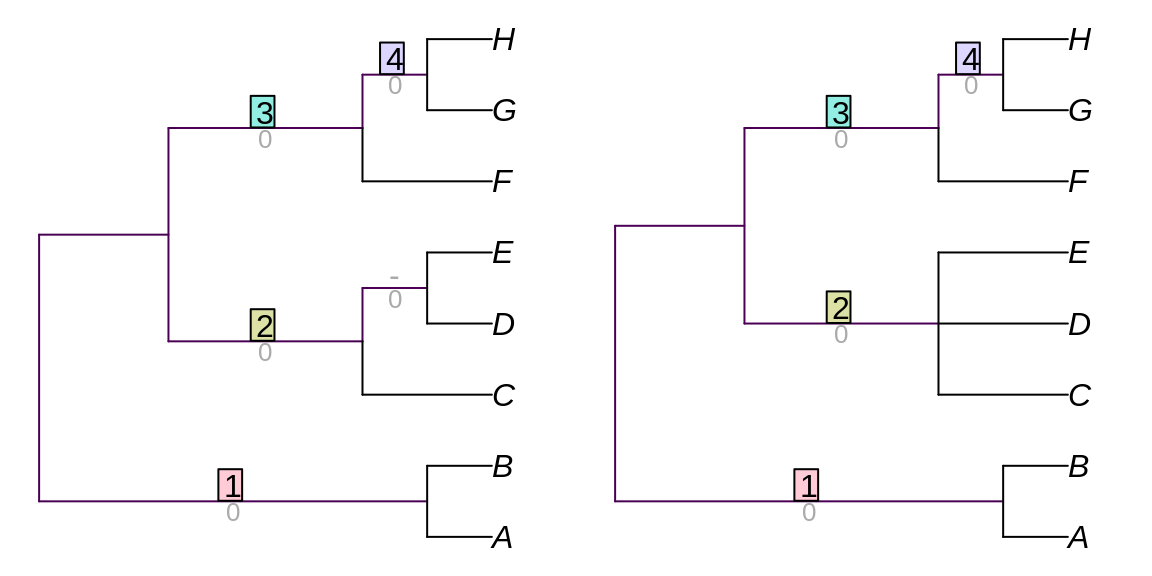
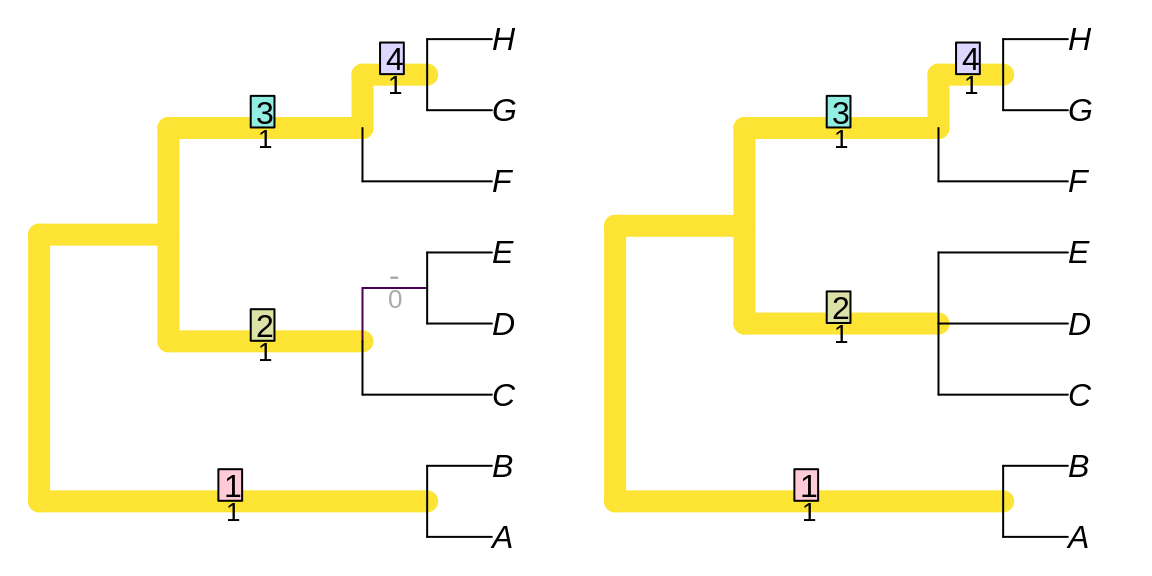
Built site for TreeDist: 0.0.0.9000@19d1842

Changed region(s): [[0.5, 0.0938, 0.875, 0.9062], [0.0, 0.0938, 0.375, 0.9062]]

diff --git a/articles/Generalized-RF.html b/articles/Generalized-RF.html
@@ -127,37 +127,34 @@
     
     
 <p>This document outlines the similarity measures employed by the generalized Robinson-Foulds distances implemented in this package.</p>
-<p>Generalized RF distances are introduced <a href="Robinson-Foulds.html">elsewhere</a>; before you read further, you may also wish to revisit how to <a href="Using-TreeDist.html">use the TreeDist package</a>, and relevant <a href="information.html">principles of information theory</a>.</p>
+<p>Generalized RF distances are introduced <a href="Robinson-Foulds.html">elsewhere</a>; before you read further, you may also wish to revisit how to <a href="Using-TreeDist.html">use the ‘TreeDist’ package</a>, and relevant <a href="information.html">principles of information theory</a>.</p>
 <div id="shared-phylogenetic-information" class="section level2">
 <h2 class="hasAnchor">
 <a href="#shared-phylogenetic-information" class="anchor"></a>Shared phylogenetic information</h2>
-<p>Under the shared phylogenetic information tree distance measure <span class="citation">(Smith, 2020)</span>, pairs of splits are assigned a similarity score that corresponds to the amount of phylogenetic information <span class="citation">(<em>sensu</em> Steel &amp; Penny, 2006)</span> that they share in common (see <a href="information.html">separate vignette</a>), a concept introduced but not developed by Nelson <span class="citation">(1979)</span>.</p>
+<p>Under the shared phylogenetic information tree distance measure <span class="citation">(Smith, 2020)</span>, pairs of splits are assigned a similarity score that corresponds to the amount of phylogenetic information <span class="citation">(<em>sensu</em> Steel &amp; Penny, 2006)</span> that they share in common (see <a href="information.html">separate vignette</a>), a concept introduced (but not developed) by Nelson <span class="citation">(1979)</span>.</p>
 <div class="sourceCode" id="cb1"><html><body><pre class="r"><span class="fu"><a href="../reference/VisualizeMatching.html">VisualizeMatching</a></span>(<span class="no">SharedPhylogeneticInfo</span>, <span class="no">tree1</span>, <span class="no">tree2</span>,
                   <span class="kw">Plot</span> <span class="kw">=</span> <span class="no">TreeDistPlot</span>, <span class="kw">matchZeros</span> <span class="kw">=</span> <span class="fl">FALSE</span>)</pre></body></html></div>
 <p><img src="Generalized-RF_files/figure-html/unnamed-chunk-1-1.png" width="576" style="display: block; margin: auto;"></p>
 <div class="sourceCode" id="cb2"><html><body><pre class="r"><span class="fu"><a href="../reference/TreeDistance.html">SharedPhylogeneticInfo</a></span>(<span class="no">tree1</span>, <span class="no">tree2</span>)</pre></body></html></div>
 <pre><code>## [1] 12.32188</code></pre>
-<div id="the-problem-with-prohibiting-conflicting-pairings" class="section level3">
+<div id="conflicting-splits-can-nevertheless-be-instructive" class="section level3">
 <h3 class="hasAnchor">
-<a href="#the-problem-with-prohibiting-conflicting-pairings" class="anchor"></a>The problem with prohibiting conflicting pairings</h3>
-<!--TODO expand to expound arboreal matchings-->
-<p>Shared phylogenetic information prohibits the pairing of contradictory splits: that is, it assigns zero similarity to splits that cannot both occur on a single tree.<br>
-This leads to problematic behaviour in certain cases: for example, when the position of two distant taxa is swapped, similarities within a tree can be obscured.<br>
-The two trees below are identical but for the position of <em>A</em> and <em>J</em>, yet receive zero similarity if conflicting splits cannot be paired.</p>
-<div class="sourceCode" id="cb4"><html><body><pre class="r"><span class="fu"><a href="../reference/VisualizeMatching.html">VisualizeMatching</a></span>(<span class="no">SharedPhylogeneticInfo</span>, <span class="kw">matchZeros</span> <span class="kw">=</span> <span class="fl">FALSE</span>, <span class="no">AtoJ</span>, <span class="no">AotJ</span>,
-                  <span class="kw">Plot</span> <span class="kw">=</span> <span class="no">TreeDistPlot</span>, <span class="kw">leaveRoom</span> <span class="kw">=</span> <span class="fl">FALSE</span>, <span class="kw">prune</span> <span class="kw">=</span> <span class="fu"><a href="https://rdrr.io/r/base/c.html">c</a></span>(<span class="fl">5</span>, <span class="fl">18</span>))</pre></body></html></div>
+<a href="#conflicting-splits-can-nevertheless-be-instructive" class="anchor"></a>Conflicting splits can nevertheless be instructive</h3>
+<p>Shared phylogenetic information assigns zero similarity to incompatible splits, i.e. those that cannot both occur on a single tree.<br>
+This leads to problematic behaviour in certain cases: for example, swapping the position of two distant leaves (as with leaves ‘A’ and ‘J’ below) can disproportionately reduce similarity – in this example, to zero.</p>
+<div class="sourceCode" id="cb4"><html><body><pre class="r"><span class="fu"><a href="../reference/VisualizeMatching.html">VisualizeMatching</a></span>(<span class="no">SharedPhylogeneticInfo</span>, <span class="no">AtoJ</span>, <span class="no">swapAJ</span>,
+                  <span class="kw">Plot</span> <span class="kw">=</span> <span class="no">TreeDistPlot</span>, <span class="kw">matchZeros</span> <span class="kw">=</span> <span class="fl">FALSE</span>, <span class="kw">prune</span> <span class="kw">=</span> <span class="fu"><a href="https://rdrr.io/r/base/c.html">c</a></span>(<span class="fl">5</span>, <span class="fl">18</span>))</pre></body></html></div>
 <p><img src="Generalized-RF_files/figure-html/unnamed-chunk-2-1.png" width="576" style="display: block; margin: auto;"></p>
 </div>
 </div>
 <div id="mutual-clustering-information" class="section level2">
 <h2 class="hasAnchor">
 <a href="#mutual-clustering-information" class="anchor"></a>Mutual clustering information</h2>
-<!--TODO REWRITE; coherent matching -> prohibit conflicting pairings -->
-<p>Scoring each pair of splits according to their mutual clustering information <span class="citation">(Smith, 2020)</span> (see <a href="information.html">separate vignette</a>) results in a information-based tree distance metric that, as desired, assigns a non-zero similarity to the case that received zero similarity under an coherent matching:</p>
-<div class="sourceCode" id="cb5"><html><body><pre class="r"><span class="fu"><a href="../reference/VisualizeMatching.html">VisualizeMatching</a></span>(<span class="no">MutualClusteringInfo</span>, <span class="no">AtoJ</span>, <span class="no">AotJ</span>, <span class="kw">matchZeros</span> <span class="kw">=</span> <span class="fl">FALSE</span>,
-                  <span class="kw">Plot</span> <span class="kw">=</span> <span class="no">TreeDistPlot</span>, <span class="kw">leaveRoom</span> <span class="kw">=</span> <span class="fl">FALSE</span>, <span class="kw">prune</span> <span class="kw">=</span> <span class="fu"><a href="https://rdrr.io/r/base/c.html">c</a></span>(<span class="fl">5</span>, <span class="fl">18</span>))</pre></body></html></div>
+<p>Scoring each pair of splits according to their mutual clustering information <span class="citation">(Smith, 2020)</span> (see <a href="information.html">separate vignette</a>) results in a information-based tree distance metric that recognizes similarity in tree structure even when every possible pairing of splits conflicts:</p>
+<div class="sourceCode" id="cb5"><html><body><pre class="r"><span class="fu"><a href="../reference/VisualizeMatching.html">VisualizeMatching</a></span>(<span class="no">MutualClusteringInfo</span>, <span class="no">AtoJ</span>, <span class="no">swapAJ</span>,
+                  <span class="kw">Plot</span> <span class="kw">=</span> <span class="no">TreeDistPlot</span>, <span class="kw">matchZeros</span> <span class="kw">=</span> <span class="fl">FALSE</span>, <span class="kw">prune</span> <span class="kw">=</span> <span class="fu"><a href="https://rdrr.io/r/base/c.html">c</a></span>(<span class="fl">5</span>, <span class="fl">18</span>))</pre></body></html></div>
 <p><img src="Generalized-RF_files/figure-html/unnamed-chunk-3-1.png" width="576" style="display: block; margin: auto;"></p>
-<div class="sourceCode" id="cb6"><html><body><pre class="r"><span class="fu"><a href="../reference/TreeDistance.html">MutualClusteringInfo</a></span>(<span class="no">AtoJ</span>, <span class="no">AotJ</span>)</pre></body></html></div>
+<div class="sourceCode" id="cb6"><html><body><pre class="r"><span class="fu"><a href="../reference/TreeDistance.html">MutualClusteringInfo</a></span>(<span class="no">AtoJ</span>, <span class="no">swapAJ</span>)</pre></body></html></div>
 <pre><code>## [1] 1.348339</code></pre>
 <p>Because no pair of non-trivial splits has zero mutual clustering information, even a dissimilar matching (such as <code>HI|ABCDEFG</code> =&gt; <code>EI|ABCDFGH</code> below) is preferred to leaving a split unpaired.</p>
 <div class="sourceCode" id="cb8"><html><body><pre class="r"><span class="fu"><a href="../reference/VisualizeMatching.html">VisualizeMatching</a></span>(<span class="no">MutualClusteringInfo</span>, <span class="no">tree1</span>, <span class="no">tree2</span>,

diff --git a/articles/Robinson-Foulds.html b/articles/Robinson-Foulds.html
@@ -202,17 +202,19 @@
 <a href="#constructing-a-matching" class="anchor"></a>Constructing a matching</h2>
 <p>Let’s consider two trees that differ in the position of one wildcard leaf, and in the resolution of a clade:</p>
 <div class="sourceCode" id="cb4"><html><body><pre class="r"><span class="no">tree1</span> <span class="kw">&lt;-</span> <span class="kw pkg">ape</span><span class="kw ns">::</span><span class="fu"><a href="https://rdrr.io/pkg/ape/man/read.tree.html">read.tree</a></span>(<span class="kw">text</span><span class="kw">=</span><span class="st">'((A, B), ((C, (D, E)), (F, (G, (H, I)))));'</span>)
-<span class="no">tree2</span> <span class="kw">&lt;-</span> <span class="fu">read.tree</span>(<span class="kw">text</span><span class="kw">=</span><span class="st">'((A, B), ((C, D, (E, I)), (F, (G, H))));'</span>)
+<span class="no">tree2</span> <span class="kw">&lt;-</span> <span class="kw pkg">ape</span><span class="kw ns">::</span><span class="fu"><a href="https://rdrr.io/pkg/ape/man/read.tree.html">read.tree</a></span>(<span class="kw">text</span><span class="kw">=</span><span class="st">'((A, B), ((C, D, (E, I)), (F, (G, H))));'</span>)
 
 <span class="fu">Plot</span>(<span class="no">tree1</span>, <span class="no">tree2</span>, <span class="kw">highlight</span> <span class="kw">=</span> <span class="st">'I'</span>, <span class="kw">prune</span> <span class="kw">=</span> <span class="fu"><a href="https://rdrr.io/r/base/list.html">list</a></span>(<span class="fl">8</span>, <span class="fu"><a href="https://rdrr.io/r/base/integer.html">integer</a></span>(<span class="fl">0</span>)))</pre></body></html></div>
 <p><img src="Robinson-Foulds_files/figure-html/unnamed-chunk-5-1.png" width="576" style="display: block; margin: auto;"></p>
-<p>These trees obtain a Robinson-Foulds distance of nine, out of a maximum of eleven possible for trees of this resolution. <code>AB|CDEFGHI</code> is the only split in common between the two trees:</p>
+<p>These trees obtain a Robinson-Foulds distance of nine: a large distances, as the maximum possible for trees of this resolution is eleven. <code>AB|CDEFGHI</code> is the only split in common between the two trees:</p>
 <div class="sourceCode" id="cb5"><html><body><pre class="r"><span class="fu">TwoTreePlot</span>()
-<span class="fu"><a href="../reference/VisualizeMatching.html">VisualizeMatching</a></span>(<span class="no">RobinsonFoulds</span>, <span class="no">tree1</span>, <span class="no">tree2</span>)</pre></body></html></div>
+<span class="fu"><a href="../reference/VisualizeMatching.html">VisualizeMatching</a></span>(<span class="no">RobinsonFouldsMatching</span>, <span class="no">tree1</span>, <span class="no">tree2</span>)</pre></body></html></div>
 <p><img src="Robinson-Foulds_files/figure-html/unnamed-chunk-6-1.png" width="576" style="display: block; margin: auto;"></p>
-<p>This high score does not seem to reflect the similarity between the trees: removing the single leaf <em>I</em> results in two trees that differ only in the resolution of a single node:</p>
+<p>This distance score is higher than might be expected, given how much the trees have in common; removing the single leaf ‘I’ results in two trees that differ only in the resolution of a single node:</p>
 <div class="sourceCode" id="cb6"><html><body><pre class="r"><span class="fu">TwoTreePlot</span>()
-<span class="fu"><a href="../reference/VisualizeMatching.html">VisualizeMatching</a></span>(<span class="no">RobinsonFoulds</span>, <span class="fu">drop.tip</span>(<span class="no">tree1</span>, <span class="st">'I'</span>), <span class="fu">drop.tip</span>(<span class="no">tree2</span>, <span class="st">'I'</span>))</pre></body></html></div>
+<span class="fu"><a href="../reference/VisualizeMatching.html">VisualizeMatching</a></span>(<span class="no">RobinsonFouldsMatching</span>,
+                  <span class="fu">drop.tip</span>(<span class="no">tree1</span>, <span class="st">'I'</span>),
+                  <span class="fu">drop.tip</span>(<span class="no">tree2</span>, <span class="st">'I'</span>))</pre></body></html></div>
 <p><img src="Robinson-Foulds_files/figure-html/unnamed-chunk-7-1.png" width="576" style="display: block; margin: auto;"></p>
 <p>This hidden similarity can be better reflected if similar, but non-identical, splits are assigned non-zero similarity scores.</p>
 <p>There are various ways to score the similarity between two splits. One is to build on the idea introduced above, where identical splits are scored according to their phylogenetic information content. Non-matching splits can be scored according to the amount of phylogenetic information that they hold in common, which is a function of the proportion of trees that are consistent with both splits. (A full explanation is provided in the discussion of <a href="Generalized-RF.html">Generalized Robinson-Foulds distances</a>.)</p>
@@ -220,8 +222,8 @@
 <span class="fu"><a href="../reference/VisualizeMatching.html">VisualizeMatching</a></span>(<span class="no">SharedPhylogeneticInfo</span>, <span class="no">tree1</span>, <span class="no">tree2</span>)</pre></body></html></div>
 <p><img src="Robinson-Foulds_files/figure-html/unnamed-chunk-8-1.png" width="576" style="display: block; margin: auto;"></p>
 <p>Here, the split <code>AB|CDEFGHI</code> occurs in both trees, and, as it happens, makes the largest contribution to the tree similarity score (3.70) for this particular pair of trees. This is the same contribution it would have made to the information-corrected Robinson-Foulds similarity.</p>
-<p>The split <code>ABCDEF|GHI</code> in the left-hand tree is paired with the split <code>ABCDEFI|GH</code> in the right-hand tree. Had <code>ABCDEF|GHI</code> been available in the right-hand tree, then this perfect match would have been assigned a similarity of <code>SplitInformation(3, 6)</code> = 5.57 bits. The partial match is instead allocated a lower score of 2.12 bits. Contradictory pairings – pairs of splits that cannot exist on a single tree, such as <code>ABCDEFG|HI</code> - <code>ABCDFGH|EI</code> – have no phylogenetic information in common. (If it is permissible to acknowledge similarity between contradictory splits, <a href="information.html">clustering information</a> is an alternative way to think about split similarity.)</p>
-<p>The matching depicted above is optimal, but is one of many. The optimal matching is calculated by considering the similarity score of each possible pairing, and solving a linear assignment problem to find the optimal set of pairings.</p>
+<p>The split <code>ABCDEF|GHI</code> in the left-hand tree is paired with the split <code>ABCDEFI|GH</code> in the right-hand tree. Had <code>ABCDEF|GHI</code> been available in the right-hand tree, then this perfect match would have been assigned a similarity of <code>SplitInformation(3, 6)</code> = 5.57 bits. The partial match is instead allocated a lower score of 2.12 bits. Pairings of incompatible splits, i.e. those that cannot co-exist on a tree, such as <code>ABCDEFG|HI</code> - <code>ABCDFGH|EI</code>, have no phylogenetic information in common. (<a href="information.html">clustering information</a> is an alternative way to think about split similarity that recognizes similarity even between incompatible splits.)</p>
+<p>The matching depicted above is one of many. It happens to be optimal: an optimal matching can be found by considering the similarity score of each possible pairing, and solving a linear assignment problem to find the optimal set of pairings.</p>
 <p>We can view the splits in each tree, named according to the number of their associated node:</p>
 <div class="sourceCode" id="cb8"><html><body><pre class="r"><span class="fu"><a href="https://rdrr.io/r/base/summary.html">summary</a></span>(<span class="kw pkg">TreeTools</span><span class="kw ns">::</span><span class="fu"><a href="https://ms609.github.io/TreeTools/reference/as.Splits.html">as.Splits</a></span>(<span class="no">tree1</span>, <span class="no">LETTERS</span>[<span class="fl">1</span>:<span class="fl">9</span>]))</pre></body></html></div>
 <pre><code>## 6 bipartition splits dividing 9 tips, A .. I

diff --git a/articles/Using-TreeDist.html b/articles/Using-TreeDist.html
@@ -163,11 +163,11 @@
 
 <span class="fu"><a href="../reference/TreeDistance.html">TreeDistance</a></span>(<span class="no">oneTree</span>, <span class="no">twoTrees</span>)</pre></body></html></div>
 <pre><code>##       one       two 
-## 0.2574896 0.2890135</code></pre>
+## 0.1768233 0.1377931</code></pre>
 <div class="sourceCode" id="cb8"><html><body><pre class="r"><span class="fu"><a href="../reference/TreeDistance.html">TreeDistance</a></span>(<span class="no">twoTrees</span>, <span class="no">threeTrees</span>)</pre></body></html></div>
 <pre><code>##             a         b         c
-## one 0.2826459 0.1381051 0.2552770
-## two 0.1808462 0.1821811 0.2112868</code></pre>
+## one 0.1889191 0.2163632 0.2140975
+## two 0.2484338 0.1891136 0.2829006</code></pre>
 </div>
 </div>
 <div id="visualizing-a-matching" class="section level2">
